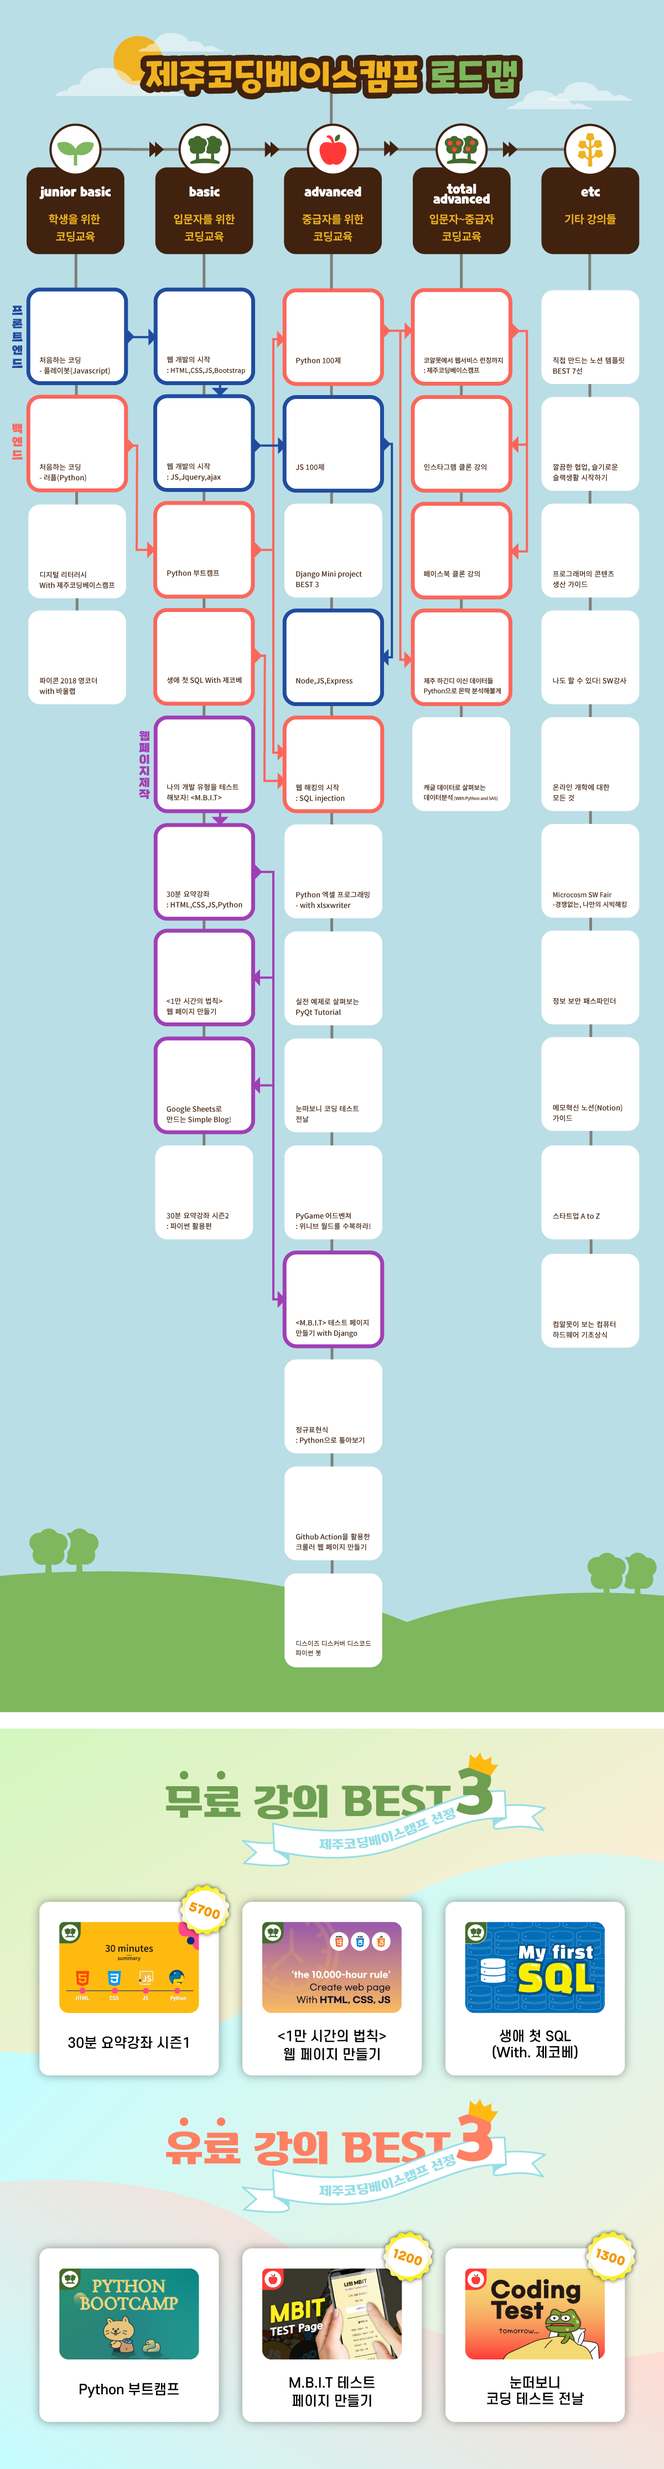
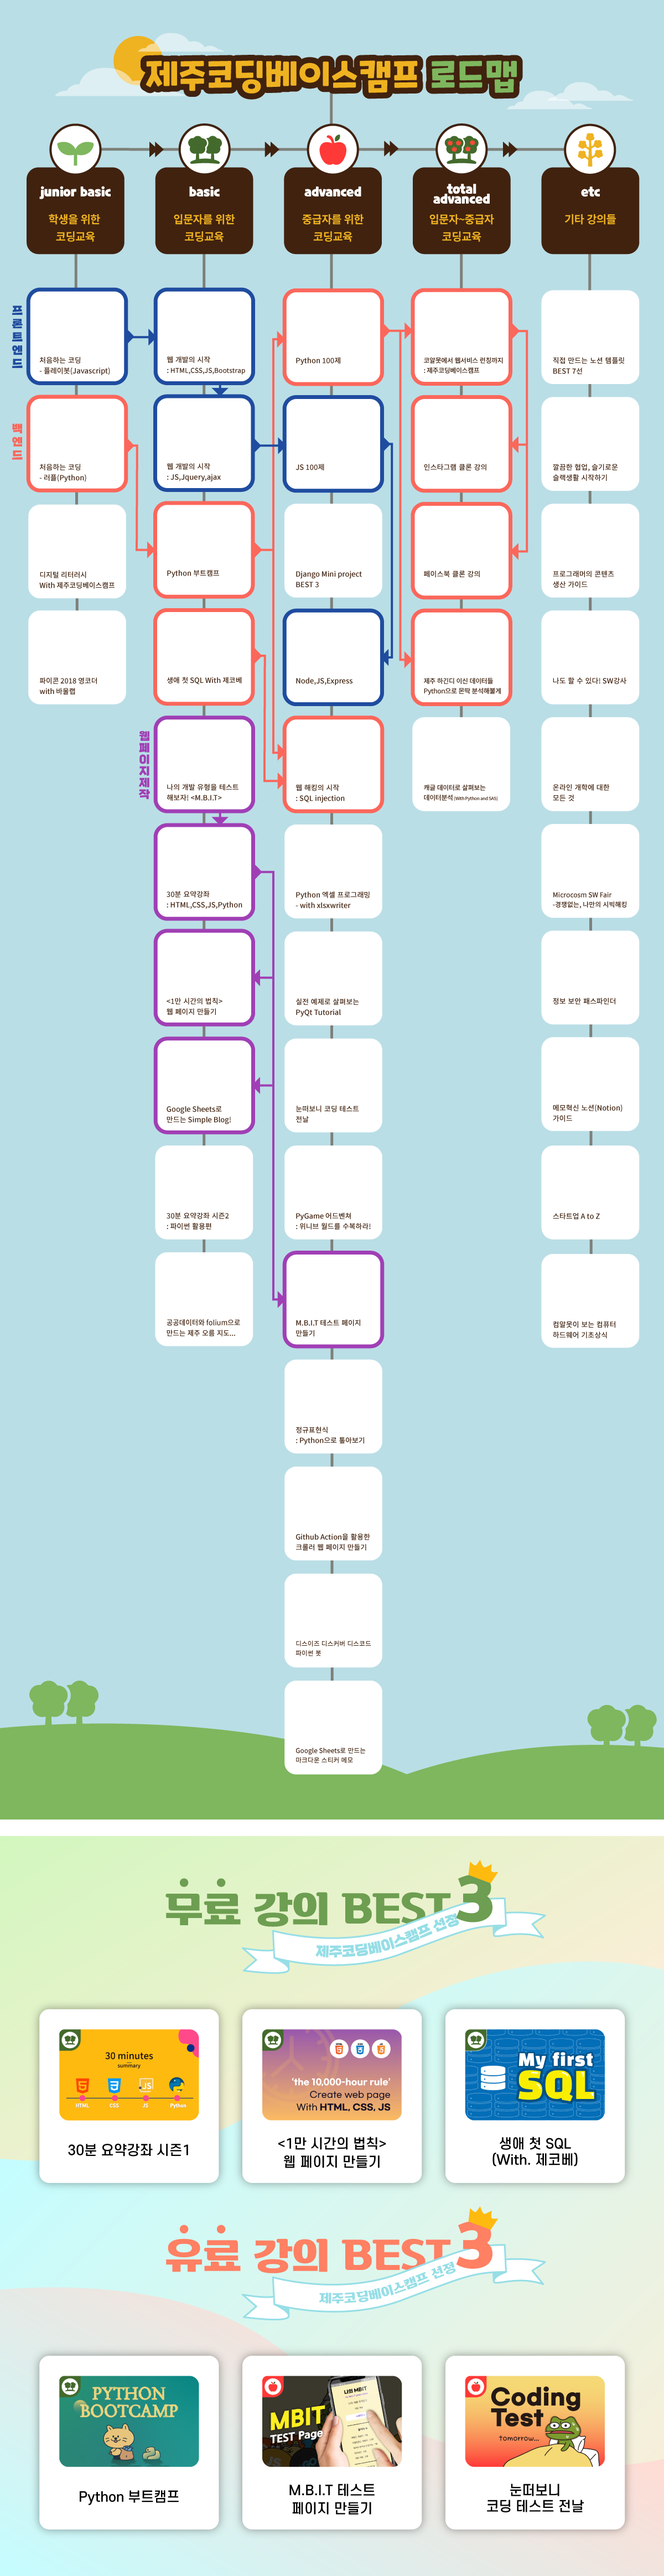
로드맵, 새소식 수정

Changed region(s): [[0.0, 0.0, 1.0, 0.9969], [0.0, 0.81, 0.0617, 0.8411]]

diff --git a/Tutorial_Homepage/curriculum.html b/Tutorial_Homepage/curriculum.html
@@ -74,13 +74,13 @@
           <div class="roadmap">
             <img src="images/roadmap_bg.png" alt="제코베 로드맵" usemap="#roadmap_secret" />
             <map name="roadmap_secret">
-              <area shape="rect" coords="106, 3473, 359, 3637" href="https://www.inflearn.com/course/제주코딩-웹개발-30분요약" target="_blank" alt="30분요약강좌"/>
-              <area shape="rect" coords="473, 3473, 726, 3637" href="https://inf.run/pjvA" target="_blank" alt="1만시간의법칙"/>
-              <area shape="rect" coords="840, 3473, 1093, 3637" href="https://inf.run/4v6N" target="_blank" alt="생애첫SQL"/>
+              <area shape="rect" coords="106, 3666, 359, 3830" href="https://www.inflearn.com/course/제주코딩-웹개발-30분요약" target="_blank" alt="30분요약강좌"/>
+              <area shape="rect" coords="473, 3666, 726, 3830" href="https://inf.run/pjvA" target="_blank" alt="1만시간의법칙"/>
+              <area shape="rect" coords="840, 3666, 1093, 3830" href="https://inf.run/4v6N" target="_blank" alt="생애첫SQL"/>
 
-              <area shape="rect" coords="106, 4098, 359, 4262" href="https://inf.run/Ernr" target="_blank" alt="pyton부트캠프"/>
-              <area shape="rect" coords="473, 4098, 726, 4262" href="https://inf.run/D3mA" target="_blank" alt="mbit-테스트-페이지-웹개발"/>
-              <area shape="rect" coords="840, 4098, 1093, 4262" href="https://inf.run/PYxw" target="_blank" alt="눈떠보니코딩테스트전날"/>
+              <area shape="rect" coords="106, 4291, 359, 4455" href="https://inf.run/Ernr" target="_blank" alt="pyton부트캠프"/>
+              <area shape="rect" coords="473, 4291, 726, 4455" href="https://inf.run/D3mA" target="_blank" alt="mbit-테스트-페이지-웹개발"/>
+              <area shape="rect" coords="840, 4291, 1093, 4455" href="https://inf.run/PYxw" target="_blank" alt="눈떠보니코딩테스트전날"/>
             </map>
             <div class="inner">
               <!-- junior basic -->
@@ -121,11 +121,14 @@
                 <div class="lec">
                   <a href="https://inf.run/DCEy" target="_blank"><img src="images/lecture/lec40.png" alt="1만 시간의 법칙"/></a>
                 </div>
-                <div class="lec white-bg-border">
+                <div class="lec">
                   <a href="https://inf.run/ycoZ" target="_blank"><img src="images/lecture/lec41.png" alt="google sheets로 만드는 simple Blog"/></a>
                 </div>
                 <div class="lec">
                   <a href="https://www.inflearn.com/course/제주코딩-웹개발-30분요약-시즌2" target="_blank"><img src="images/lecture/lec05.png" alt="30분요약강좌시즌2"/></a>
+                </div>
+                <div class="lec">
+                  <a href="https://www.inflearn.com/instructors/170213/courses" target="_blank"><img src="images/lecture/lec43.png" alt="폴리움으로 만드는 제주 오름 지도 안내 서비스"/></a>
                 </div>
               </div>
               <!-- advanced -->
@@ -168,6 +171,9 @@
                 </div>
                 <div class="lec">
                   <a href="https://inf.run/Mpi4" target="_blank"><img src="images/lecture/lec38.png" alt="디스코드"/></a>
+                </div>
+                <div class="lec">
+                  <a href="https://www.inflearn.com/instructors/170213/courses" target="_blank"><img src="images/lecture/lec44.png" alt="스티커메모"/></a>
                 </div>
               </div>
               <!-- total advanced -->

diff --git a/Tutorial_Homepage/index.html b/Tutorial_Homepage/index.html
@@ -226,30 +226,13 @@
           <!-- post 1 -->
           <div class="post">
             <div class="post__img">
-              <!-- <a href="https://forms.gle/3pkzEqif7xapocF27" target="_blank">
-                <img src="images/notice/card_news_01.jpeg" alt="오프라인 강의 카드뉴스 01" />
-              </a> -->
             </div>
             <div class="post__item">
-              <div class="post__img">
-                <a href="https://forms.gle/3XewurqziVZmcq4C6" target="_blank">
-                  <img src="images/notice/notice_frontend.png" alt="프론트엔드웹개발반">
-                </a>
-              </div>
               <h4 class="post__title">
                 바울랩 오프라인 강좌 공지!
               </h4>
               <p class="post__explanation">
-                📌 강의 소개<br>
-                - 강의명 : 프론트엔드 웹 개발반<br>
-                - 개강일 : 2021년 6월 9일 수요일<br>
-                - 강의시간 : 매주 수요일, 오후 7시 ~ 10시(3시간), 총 12회차 수업<br>
-                - 강의장소 : 제주시 동광로 137 대동빌딩 4층, 바울랩ICT컴퓨터학원<br>
-                - 수강료 : 월 88,000원<br>
-                - 강의방식 : 오프라인<br>
-                - 수강인원 : 10명 (선착순 접수)<br>
-                - 수강신청 : 구글 폼 작성 후 제출<br>
-                - 문의 : 한재현 010-8001-6536
+                현재 접수 중인 오프라인 강좌가 없습니다. 아래 링크를 통해 온라인 강좌를 확인해 주세요.
               </p>
               <a href="https://forms.gle/3XewurqziVZmcq4C6" target="_blank" class="readmore__btn">
                 <i class="fa fa-arrow-circle-right"></i> 강의 신청하기🏃♂

diff --git a/Tutorial_Homepage/css/curriculum.css b/Tutorial_Homepage/css/curriculum.css
@@ -156,10 +156,10 @@ section > h2 {
   position: absolute;
   margin-left: 47px;
   left: 0;
-  top: 360px;
+  top: 365px;
 }
 .roadmap .inner > div {
-  margin-right: 64.5px;
+  margin-right: 64px;
 }
 .roadmap .inner > div:last-child {
   margin: 0;
@@ -167,7 +167,7 @@ section > h2 {
 .roadmap .inner .lec {
   width: 90px;
   height: 58.5px;
-  margin-bottom: 71px;
+  margin-bottom: 70px;
   -webkit-transition: all 0.4s;
           transition: all 0.4s;
 }
@@ -188,9 +188,6 @@ section > h2 {
   -webkit-transform: translateX(-5px) translateY(-5px);
       -ms-transform: translateX(-5px) translateY(-5px);
           transform: translateX(-5px) translateY(-5px);
-}
-.white-bg-border {
-  border: 1px solid #959595;
 }
 @-webkit-keyframes blink {
   0% {
@@ -435,8 +432,8 @@ section > h2 {
     height: auto;
   }
   .roadmap .inner {
-    margin-left: 36.5px;
-    top: 280px;
+    margin-left: 36px;
+    top: 282px;
   }
   .roadmap .inner > div {
     margin-right: 50px;
